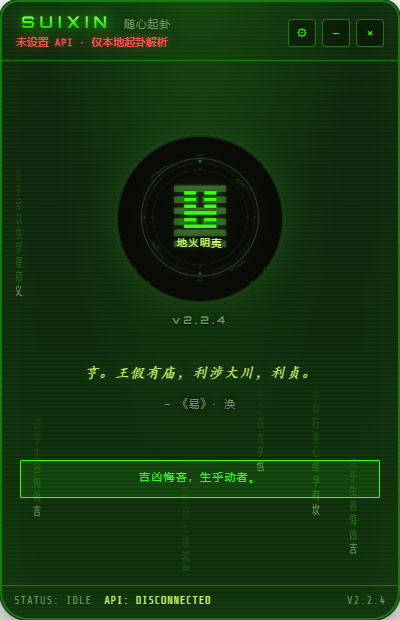
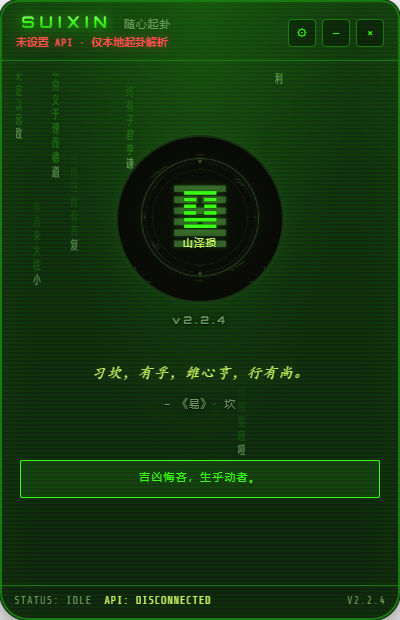
Update release UI preview to process, result, and share.
Replace settings/home/method shots with casting animation, interpretation, and share-card generation.

diff --git a/docs/RELEASE_NOTES_v2.2.4.md b/docs/RELEASE_NOTES_v2.2.4.md
@@ -25,14 +25,14 @@ Mac 未签名，首次打开可在「隐私与安全性」允许。
 
 ![开始页](https://raw.githubusercontent.com/yuenchoryiu-cyber/suixin-qigua/master/docs/screenshots/01-start.png)
 
-**占卜体系**
+**算卦过程**
 
-![占卜体系](https://raw.githubusercontent.com/yuenchoryiu-cyber/suixin-qigua/master/docs/screenshots/02-home-schools.png)
+![算卦过程](https://raw.githubusercontent.com/yuenchoryiu-cyber/suixin-qigua/master/docs/screenshots/02-process.png)
 
-**取数方式**
+**算卦结果**
 
-![取数方式](https://raw.githubusercontent.com/yuenchoryiu-cyber/suixin-qigua/master/docs/screenshots/03-methods.png)
+![算卦结果](https://raw.githubusercontent.com/yuenchoryiu-cyber/suixin-qigua/master/docs/screenshots/03-result.png)
 
-**设置**
+**生成分享**
 
-![设置](https://raw.githubusercontent.com/yuenchoryiu-cyber/suixin-qigua/master/docs/screenshots/04-settings.png)
+![生成分享](https://raw.githubusercontent.com/yuenchoryiu-cyber/suixin-qigua/master/docs/screenshots/04-share.png)
